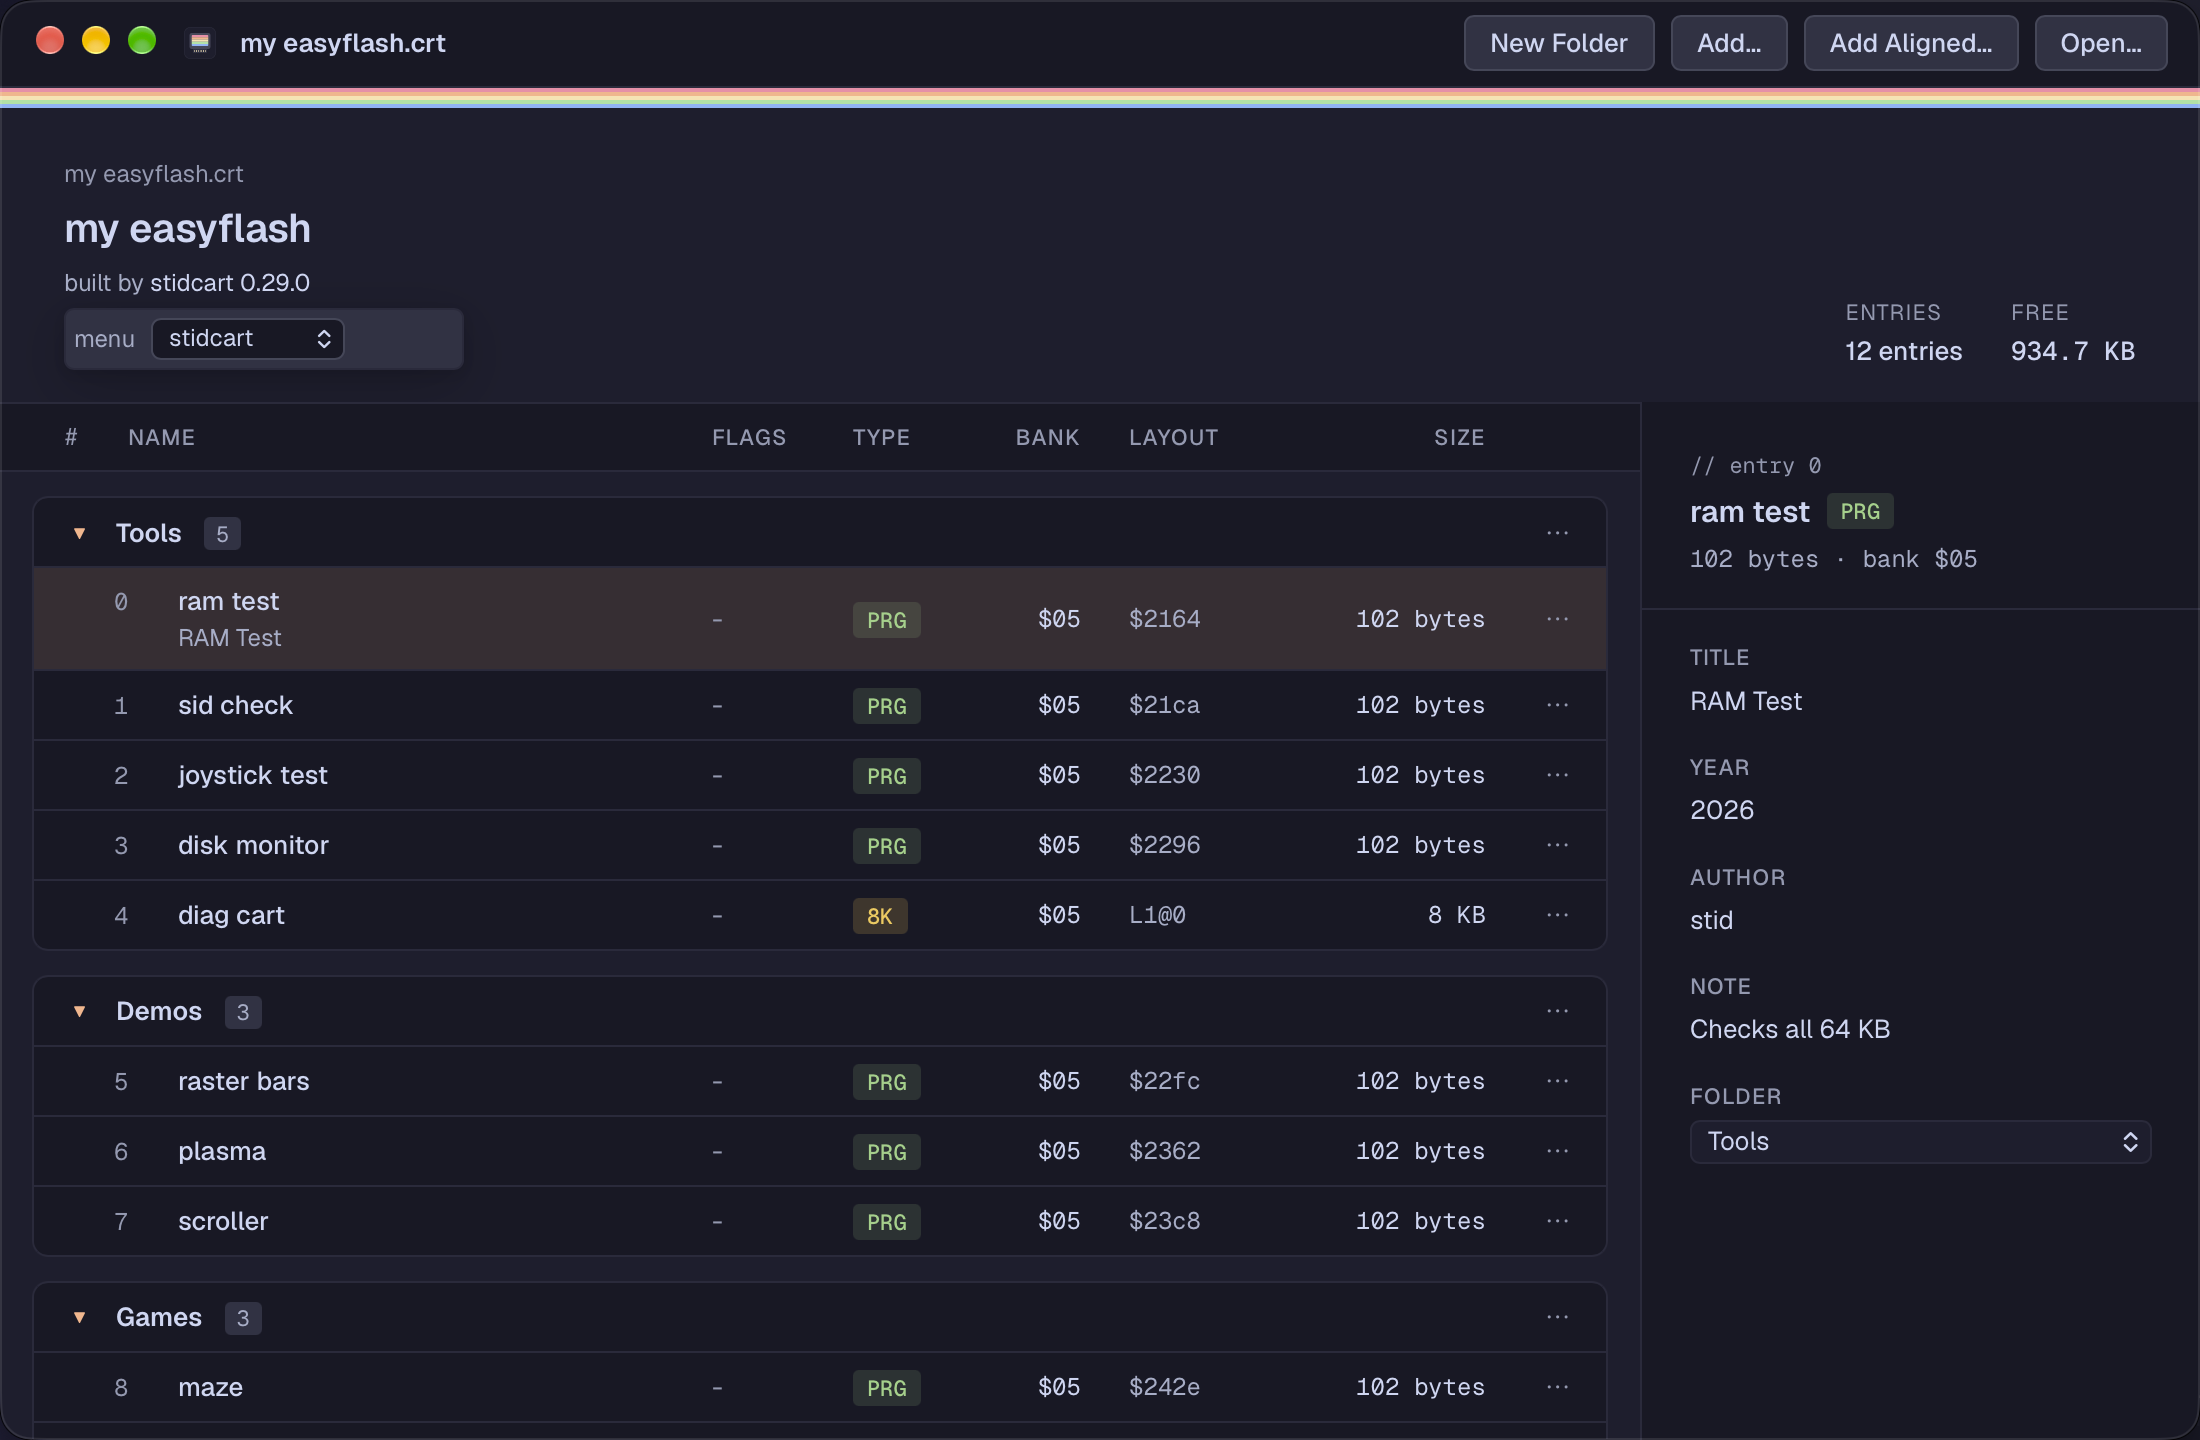
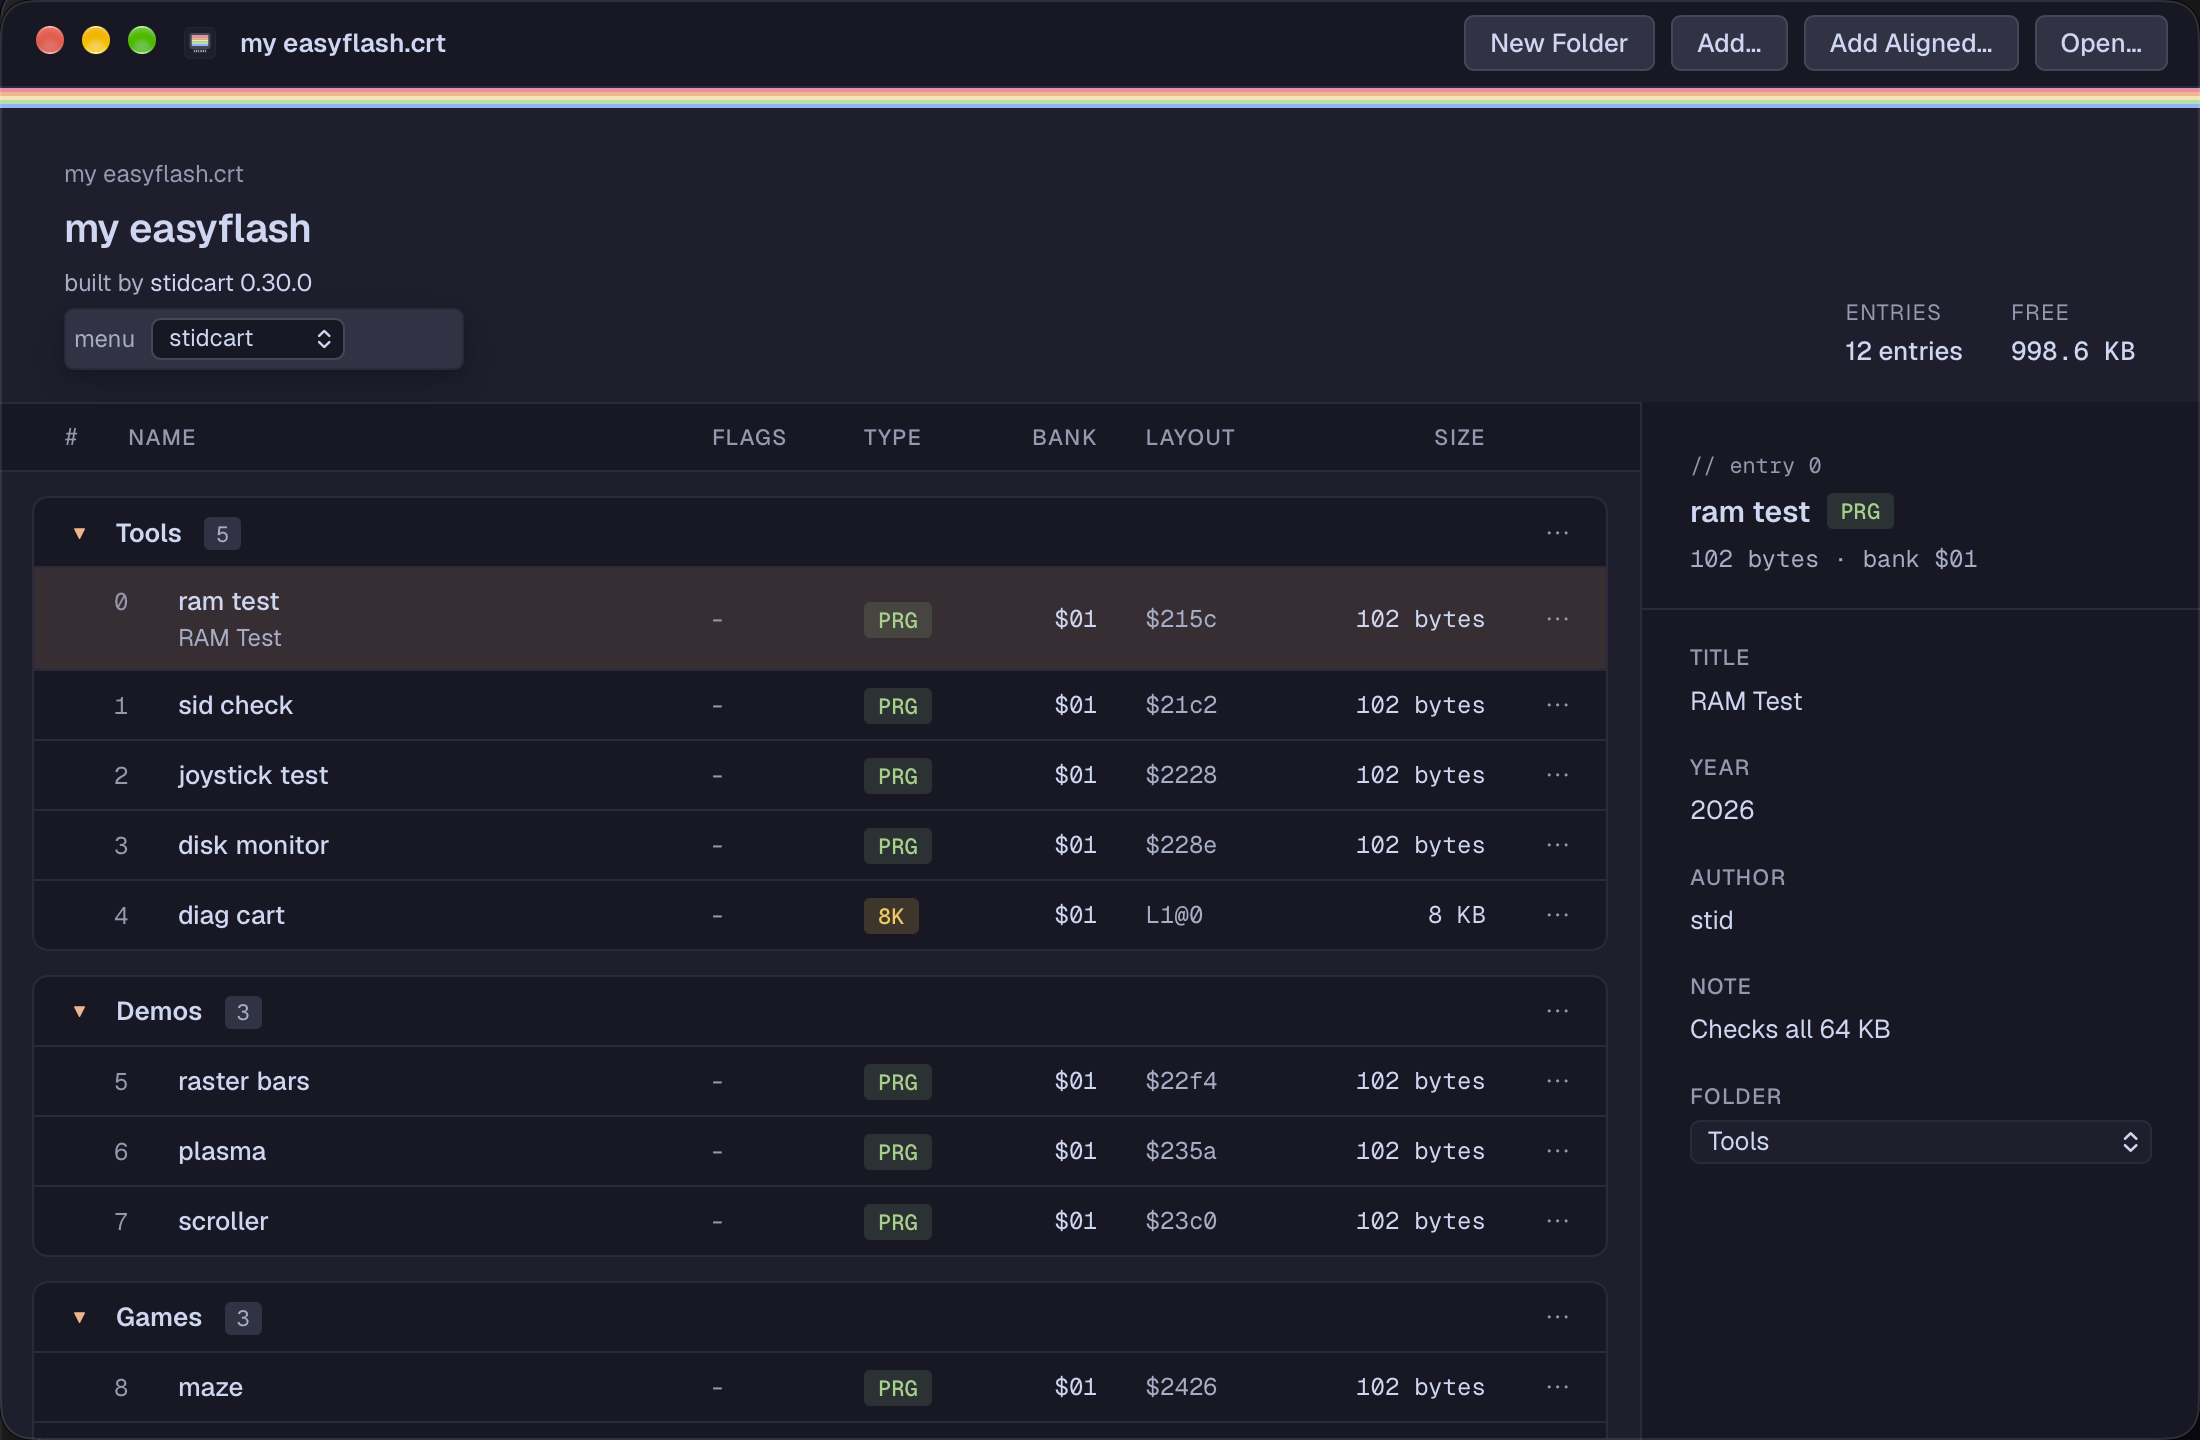
docs: show the hex viewer in the README and the app guide
A new screenshot of the hex viewer at the cart's directory, under the app
screenshot in the README and at the top of "Looking at the bytes". The
app screenshot is retaken on the same cart, so its header reads 0.30.0.

Claude-Session: https://claude.ai/code/session_01Hc37cWRHq87Uo8LMvnEq6T

diff --git a/docs/guide/app.md b/docs/guide/app.md
@@ -46,6 +46,8 @@ The cart is saved in the order you see, so EasyLoader's flat list follows it too
 View ▸ Hex Viewer (⇧⌘H) opens a second window with the cart's bytes, 16 to a row. It only shows
 them; nothing there can be changed.
 
+![The hex viewer at the cart's directory, with the entry names in the character column](img/hex.png)
+
 - Rows run bank by bank, the low half (ROML) of each bank and then the high half (ROMH). Each row
   starts with its bank and half, then the address the C64 sees: `$8000` to `$9FFF` in ROML,
   `$A000` to `$BFFF` in ROMH. The top bar names the bank at the top of the view.

diff --git a/README.md b/README.md
@@ -13,6 +13,10 @@ for the C64 side. I use it with an EasyFlash 3.
 
 *The desktop app, with the same cart open.*
 
+![The app's hex viewer showing bank 0 of the cart: the directory, with each entry's name readable in the character column, and a legend of what owns the tinted bytes](docs/guide/img/hex.png)
+
+*The app's hex viewer, at the cart's directory.*
+
 ## Why I wrote this
 
 I have an EasyFlash 3 and a recent Mac, and every time I wanted to put a new set of programs on
